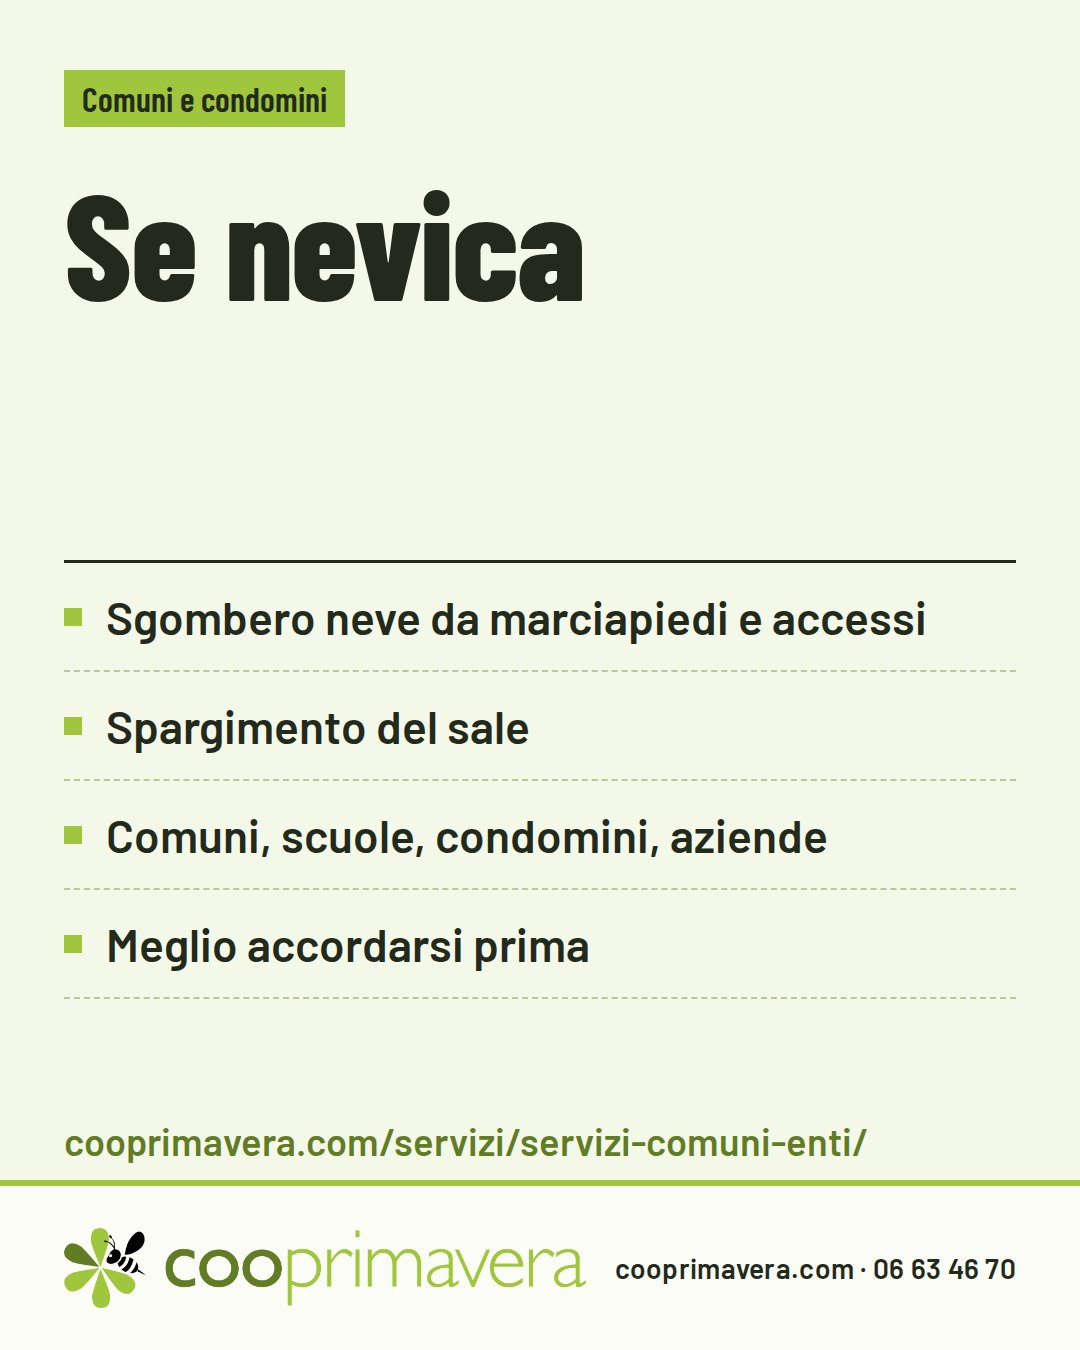
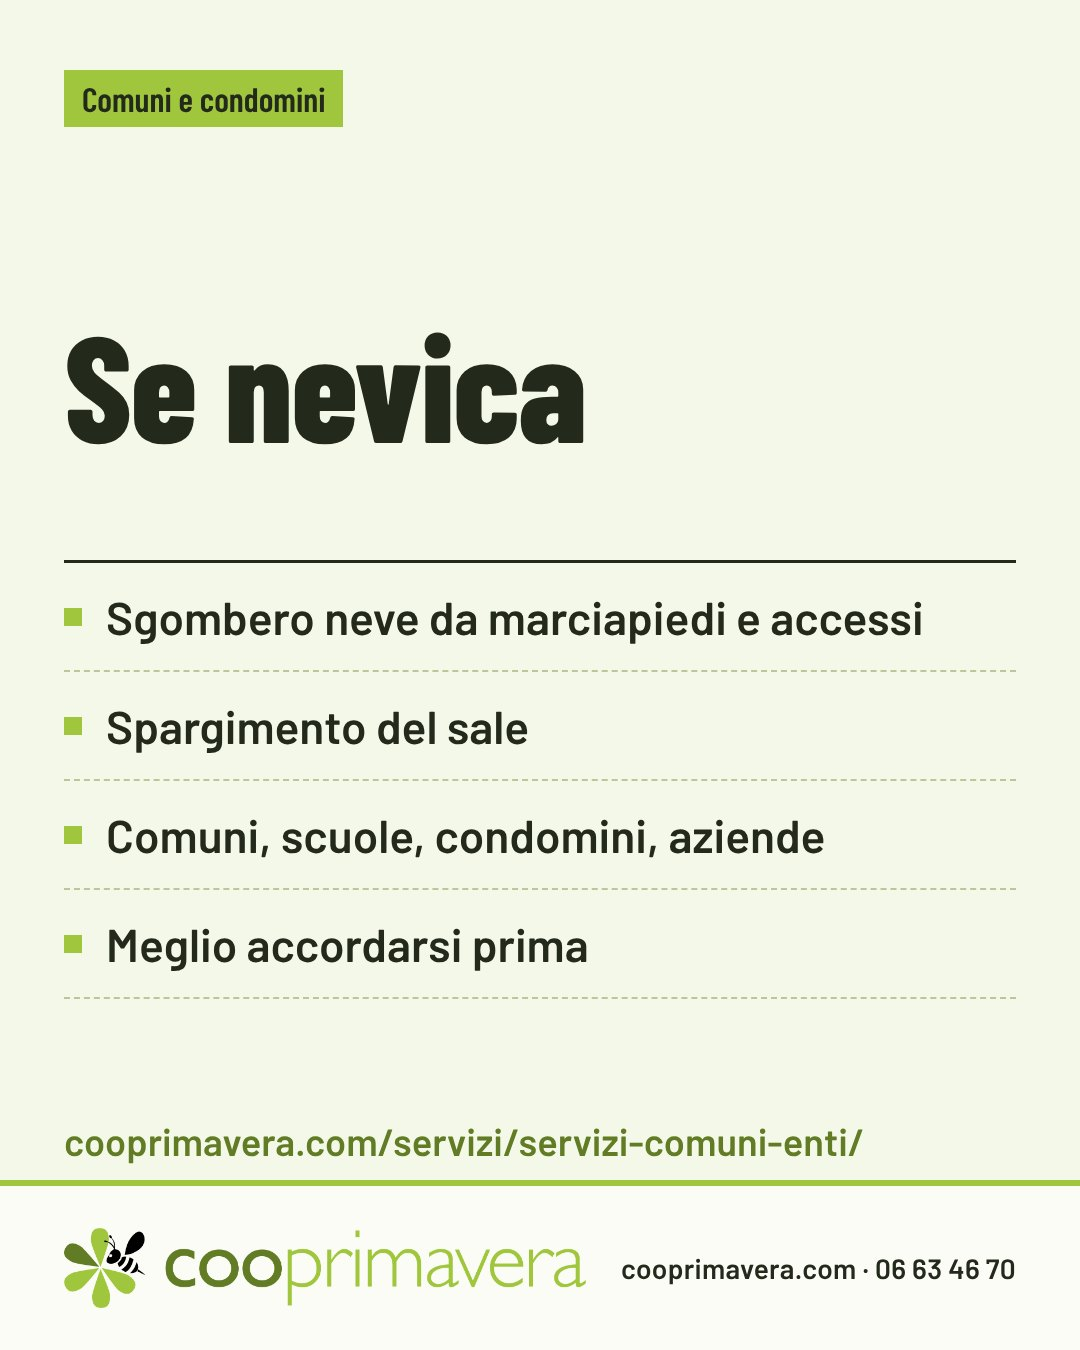
Passi del preventivo su due colonne fisse; «Se nevica» con il titolo vicino all'elenco
- I quattro passi stanno sempre su due colonne (una sola sotto i 576 px), a qualunque larghezza del contenitore.
- Grafiche solo testo con titolo su una riga: il titolo scende verso l'elenco. Rifatta «Se nevica» (30/11); le altre restano uguali.

diff --git a/social/grafiche/genera.js b/social/grafiche/genera.js
@@ -83,7 +83,11 @@ function pagina(p) {
   const ritocco = `<script>document.fonts.ready.then(()=>{const t=document.querySelector('.cf');if(!t)return;
     const h=t.querySelector('h1'),o=t.querySelector('ol'),d=Math.round(o.offsetTop-36-(h.offsetTop+h.offsetHeight));if(d<20)return;
     const s=(e,p,v)=>e.style[p]=(parseFloat(getComputedStyle(e)[p])+v)+'px';
-    s(t.querySelector('.ph'),'height',d);s(t.querySelector('.num'),'top',d);s(h,'top',d);});</script>`;
+    s(t.querySelector('.ph'),'height',d);s(t.querySelector('.num'),'top',d);s(h,'top',d);});
+    // Grafica solo testo con titolo corto: il titolo scende verso l'elenco invece di lasciare un vuoto in mezzo.
+    document.fonts.ready.then(()=>{const t=document.querySelector('.t');if(!t)return;
+    const h=t.querySelector('h1'),u=t.querySelector('ul'),d=Math.round(u.offsetTop-105-(h.offsetTop+h.offsetHeight));if(d<20)return;
+    h.style.top=(h.offsetTop+d)+'px';});</script>`;
   return `<!doctype html><html lang="it"><head><meta charset="utf-8"><style>${FONT}${CSS}</style></head><body>${corpo}${ritocco}</body></html>`;
 }
 (async () => {

diff --git a/assets/css/main.css b/assets/css/main.css
@@ -418,8 +418,9 @@ p  { text-wrap: pretty; }
 /* Come funziona: passi numerati verso il preventivo */
 .passi {
   list-style: none; margin: 1.6rem 0 2rem; padding: 0; counter-reset: passo;
-  display: grid; gap: 1rem; grid-template-columns: repeat(auto-fit, minmax(min(100%, 16rem), 1fr));
+  display: grid; gap: 1rem; grid-template-columns: repeat(2, minmax(0, 1fr));
 }
+@media (max-width: 575.98px) { .passi { grid-template-columns: 1fr; } }
 .passi li {
   counter-increment: passo;
   background: var(--verde-fondo); border: 1px solid var(--bordo);
